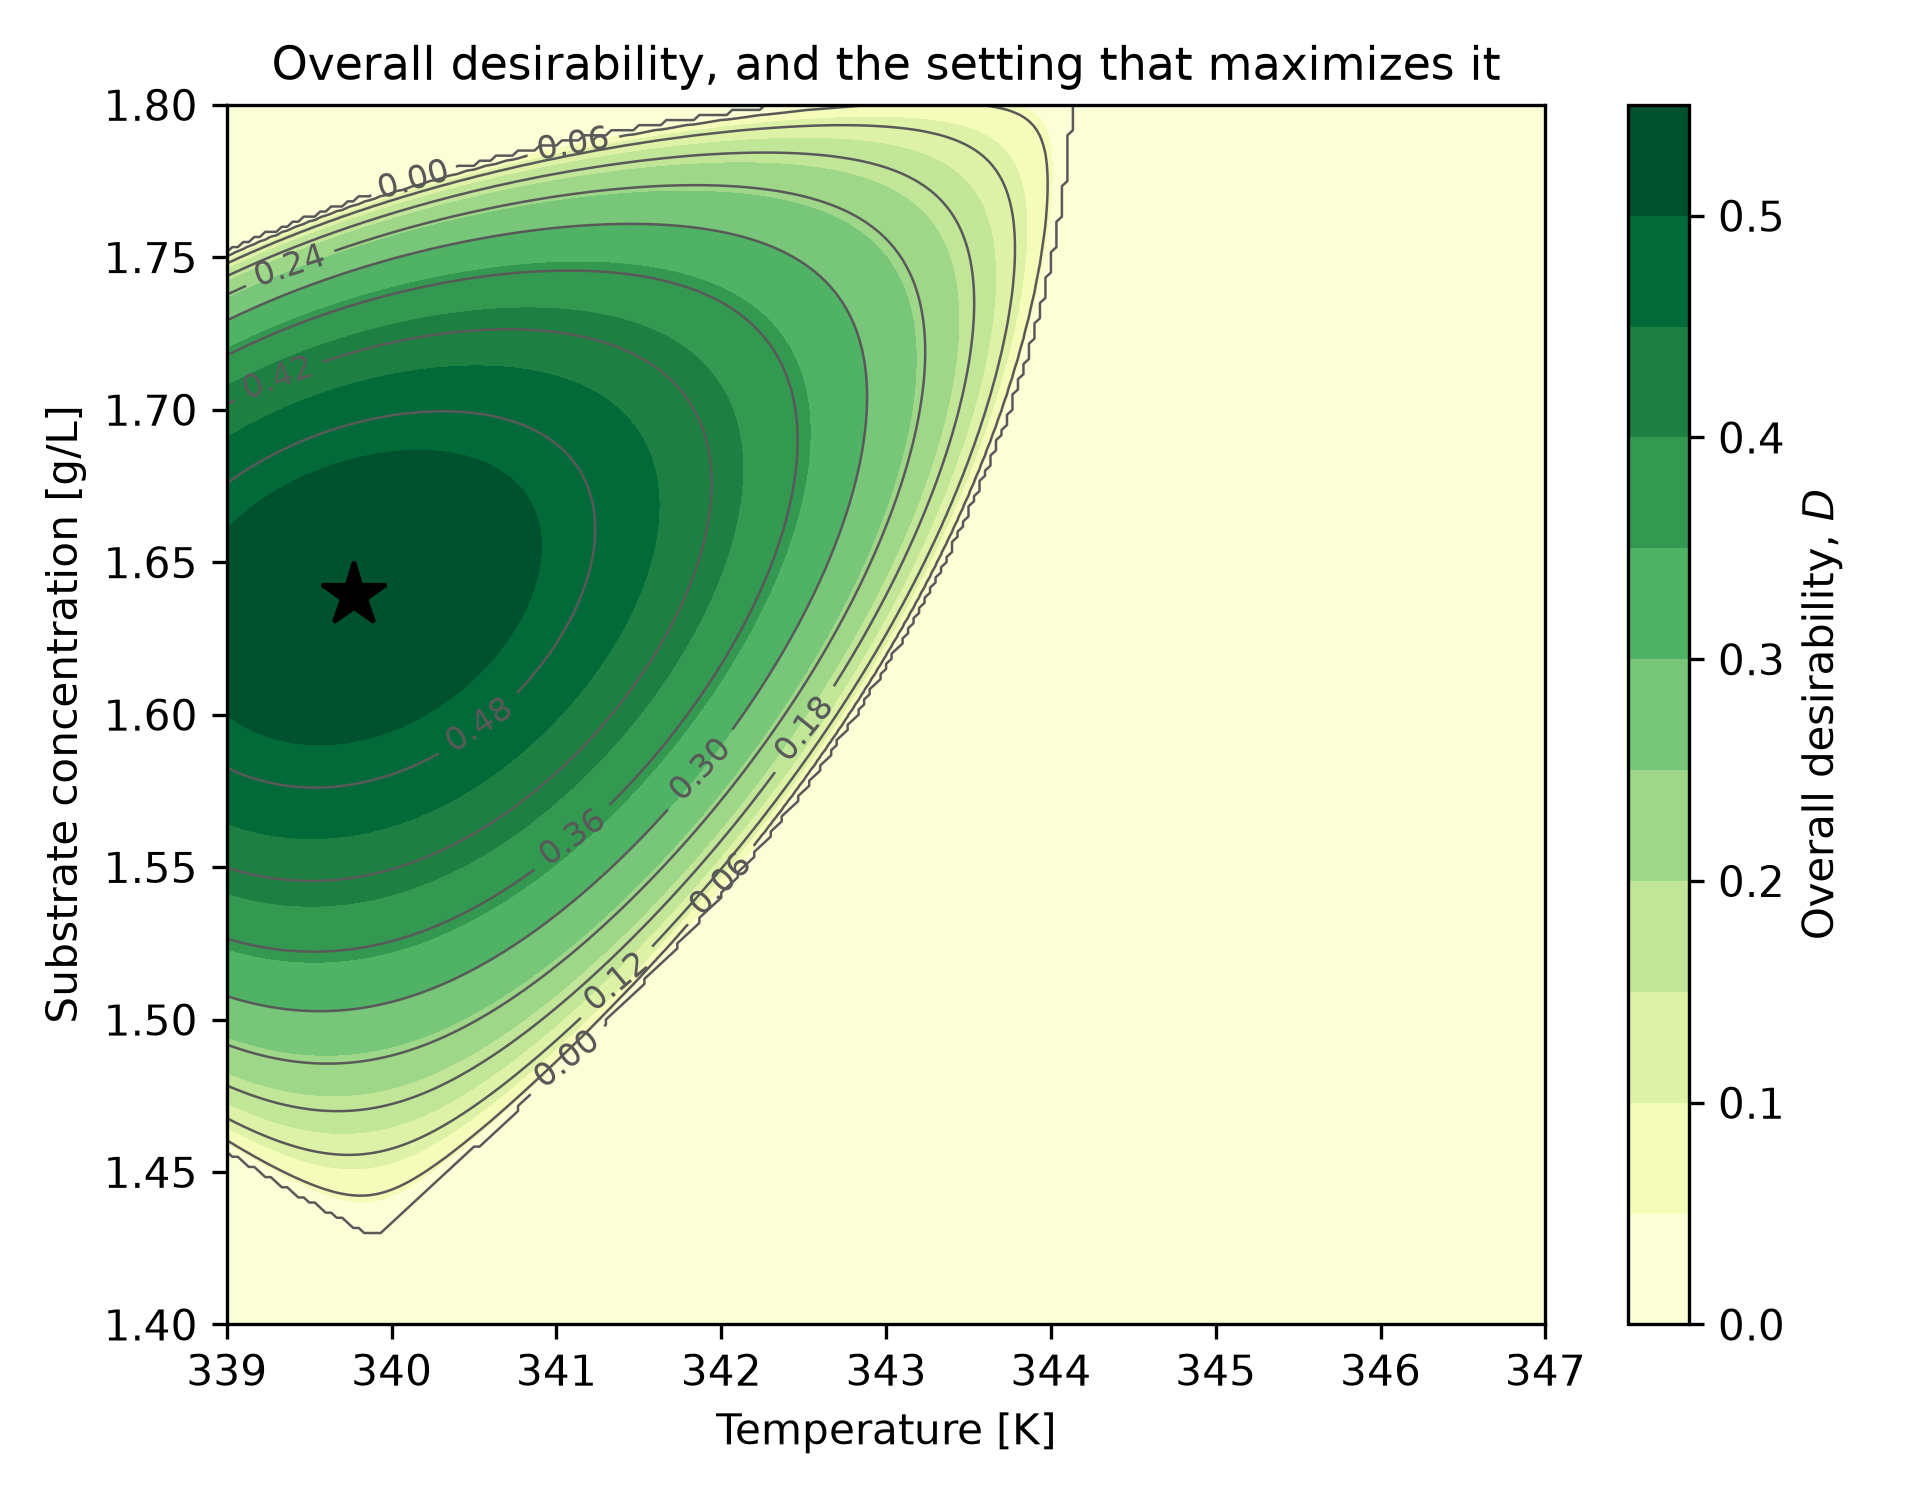
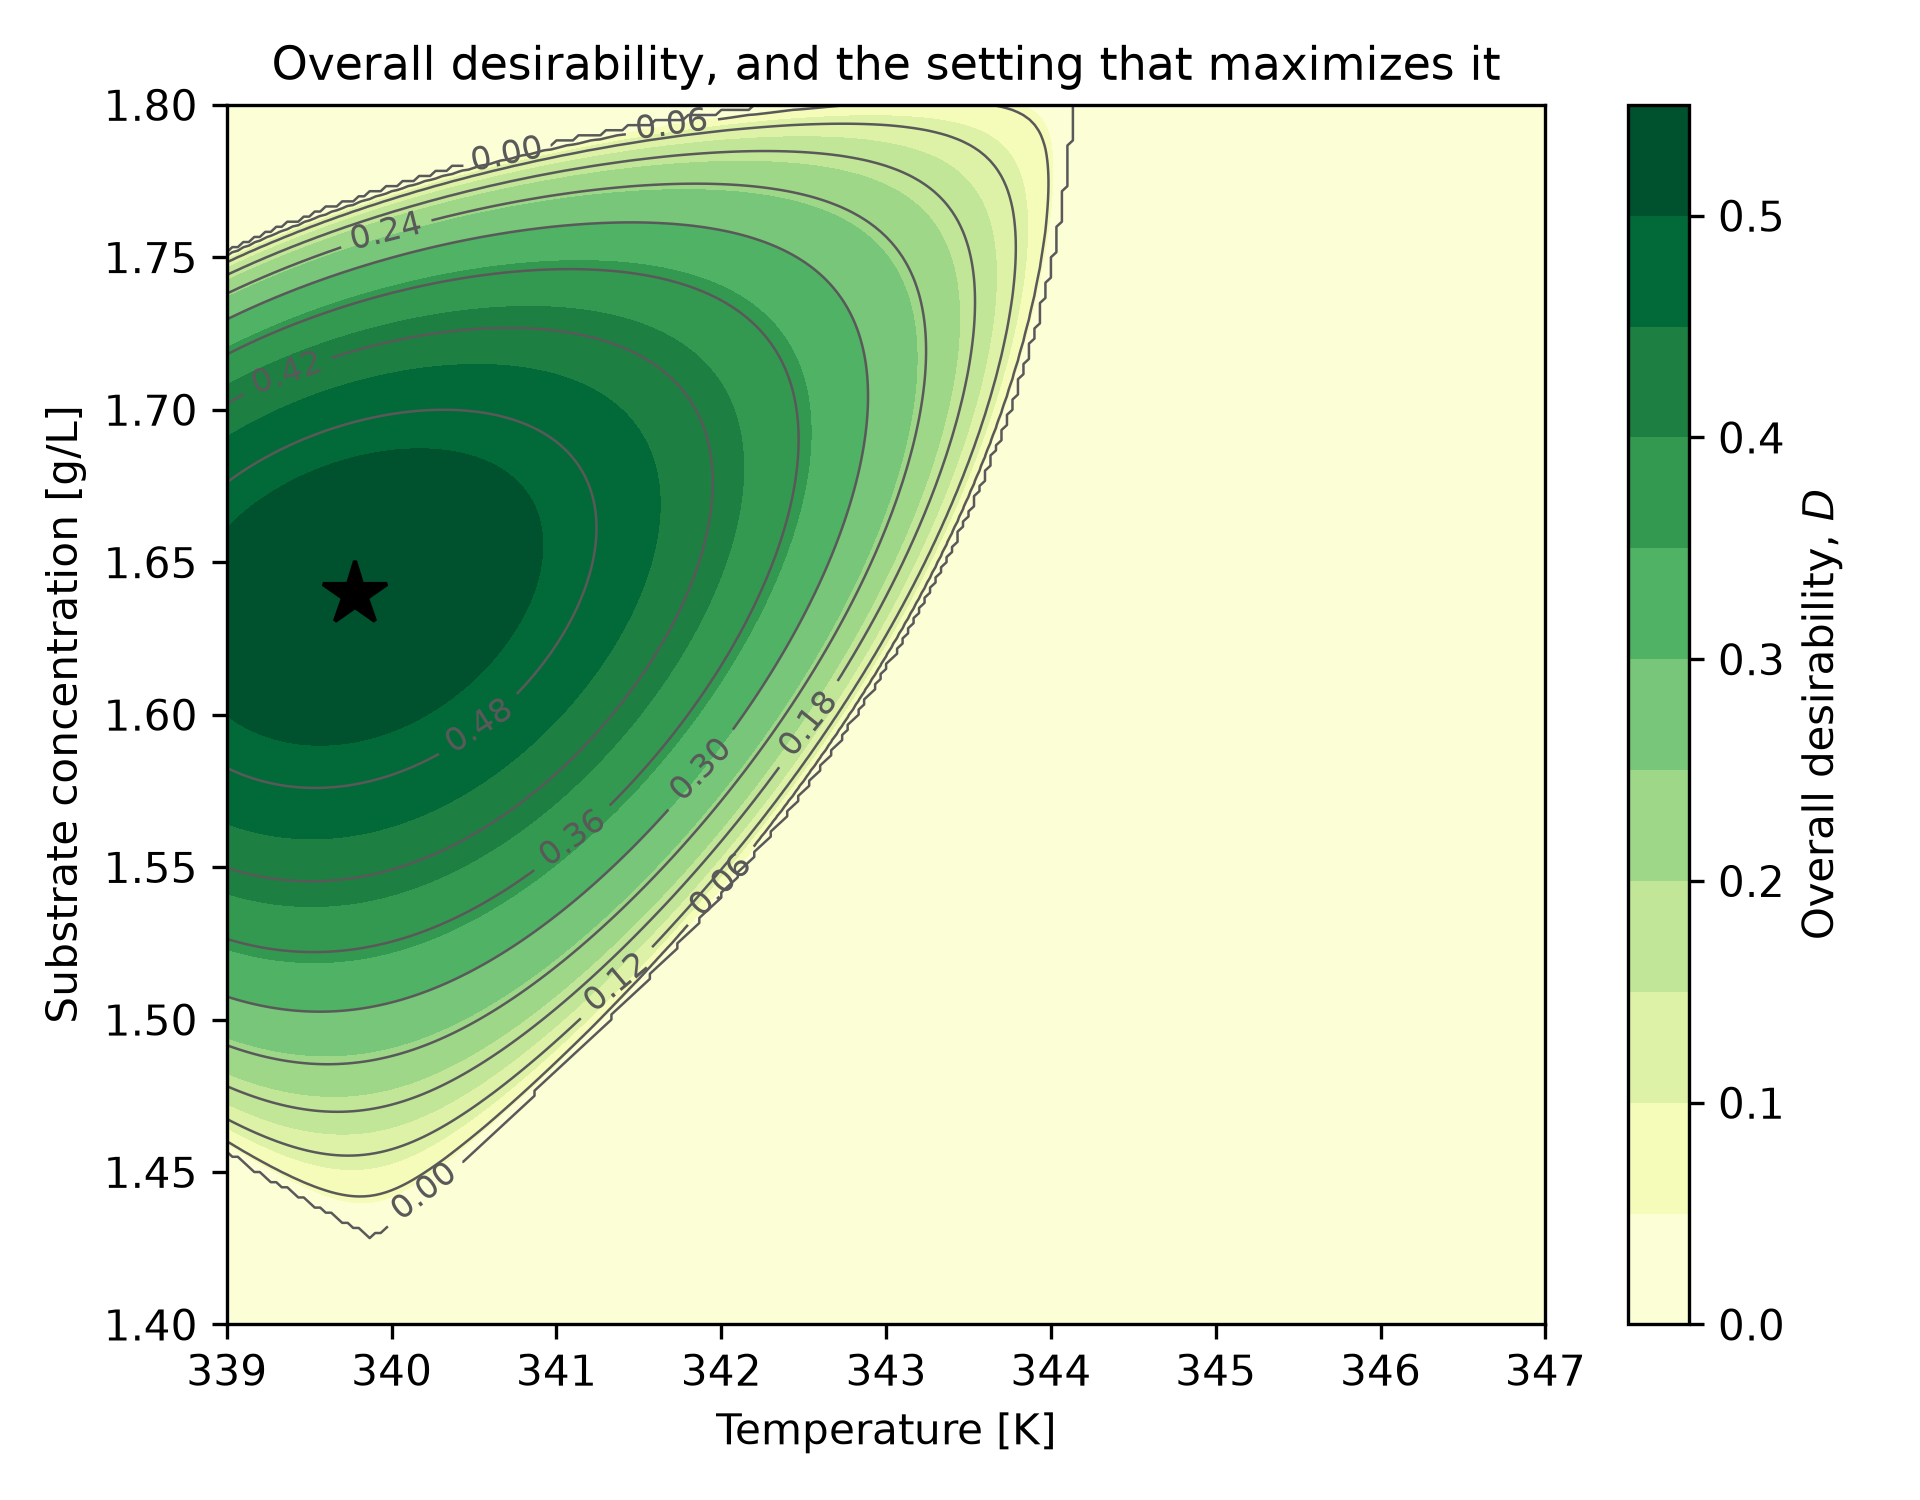
Multi-response figures: code the axial runs at sqrt(2), as the book's table places them
The nine runs were recorded at the settings the book's table gives,
337.3 K and 348.7 K for the temperature axial runs, which are the
rotatable distance sqrt(2) = 1.414 coded units from the centre. The
fit coded them as 1.41, so its coefficients differed from what the
designed-experiments app (and any software coding the settings) gives
for the same nine results: -2.61 against -2.625 for the quadratic in
temperature, for instance. The recorded results are the same either
way; only the fit and the three figures drawn from it move, by less
than a contour line's width.

The desirability-functions figure does not depend on the fit and is
unchanged. The others were redrawn with matplotlib's default settings,
which reproduce that unchanged figure pixel for pixel.

Claude-Session: https://claude.ai/code/session_01VH72wW3LwaRHo54dV2z5rL

diff --git a/doe/multi-response-desirability-figures.py b/doe/multi-response-desirability-figures.py
@@ -93,7 +93,7 @@ def true_purity(temperature, substrate):
 
 def build_design():
     """Return the nine-run central composite design and both measured responses."""
-    alpha = 1.41  # rotatable axial distance 2**(2/4), rounded as in the book's code
+    alpha = 2**0.5  # rotatable axial distance 2**(2/4), as the book's code and the app use
     coded = [
         (-1.0, -1.0),
         (+1.0, -1.0),
